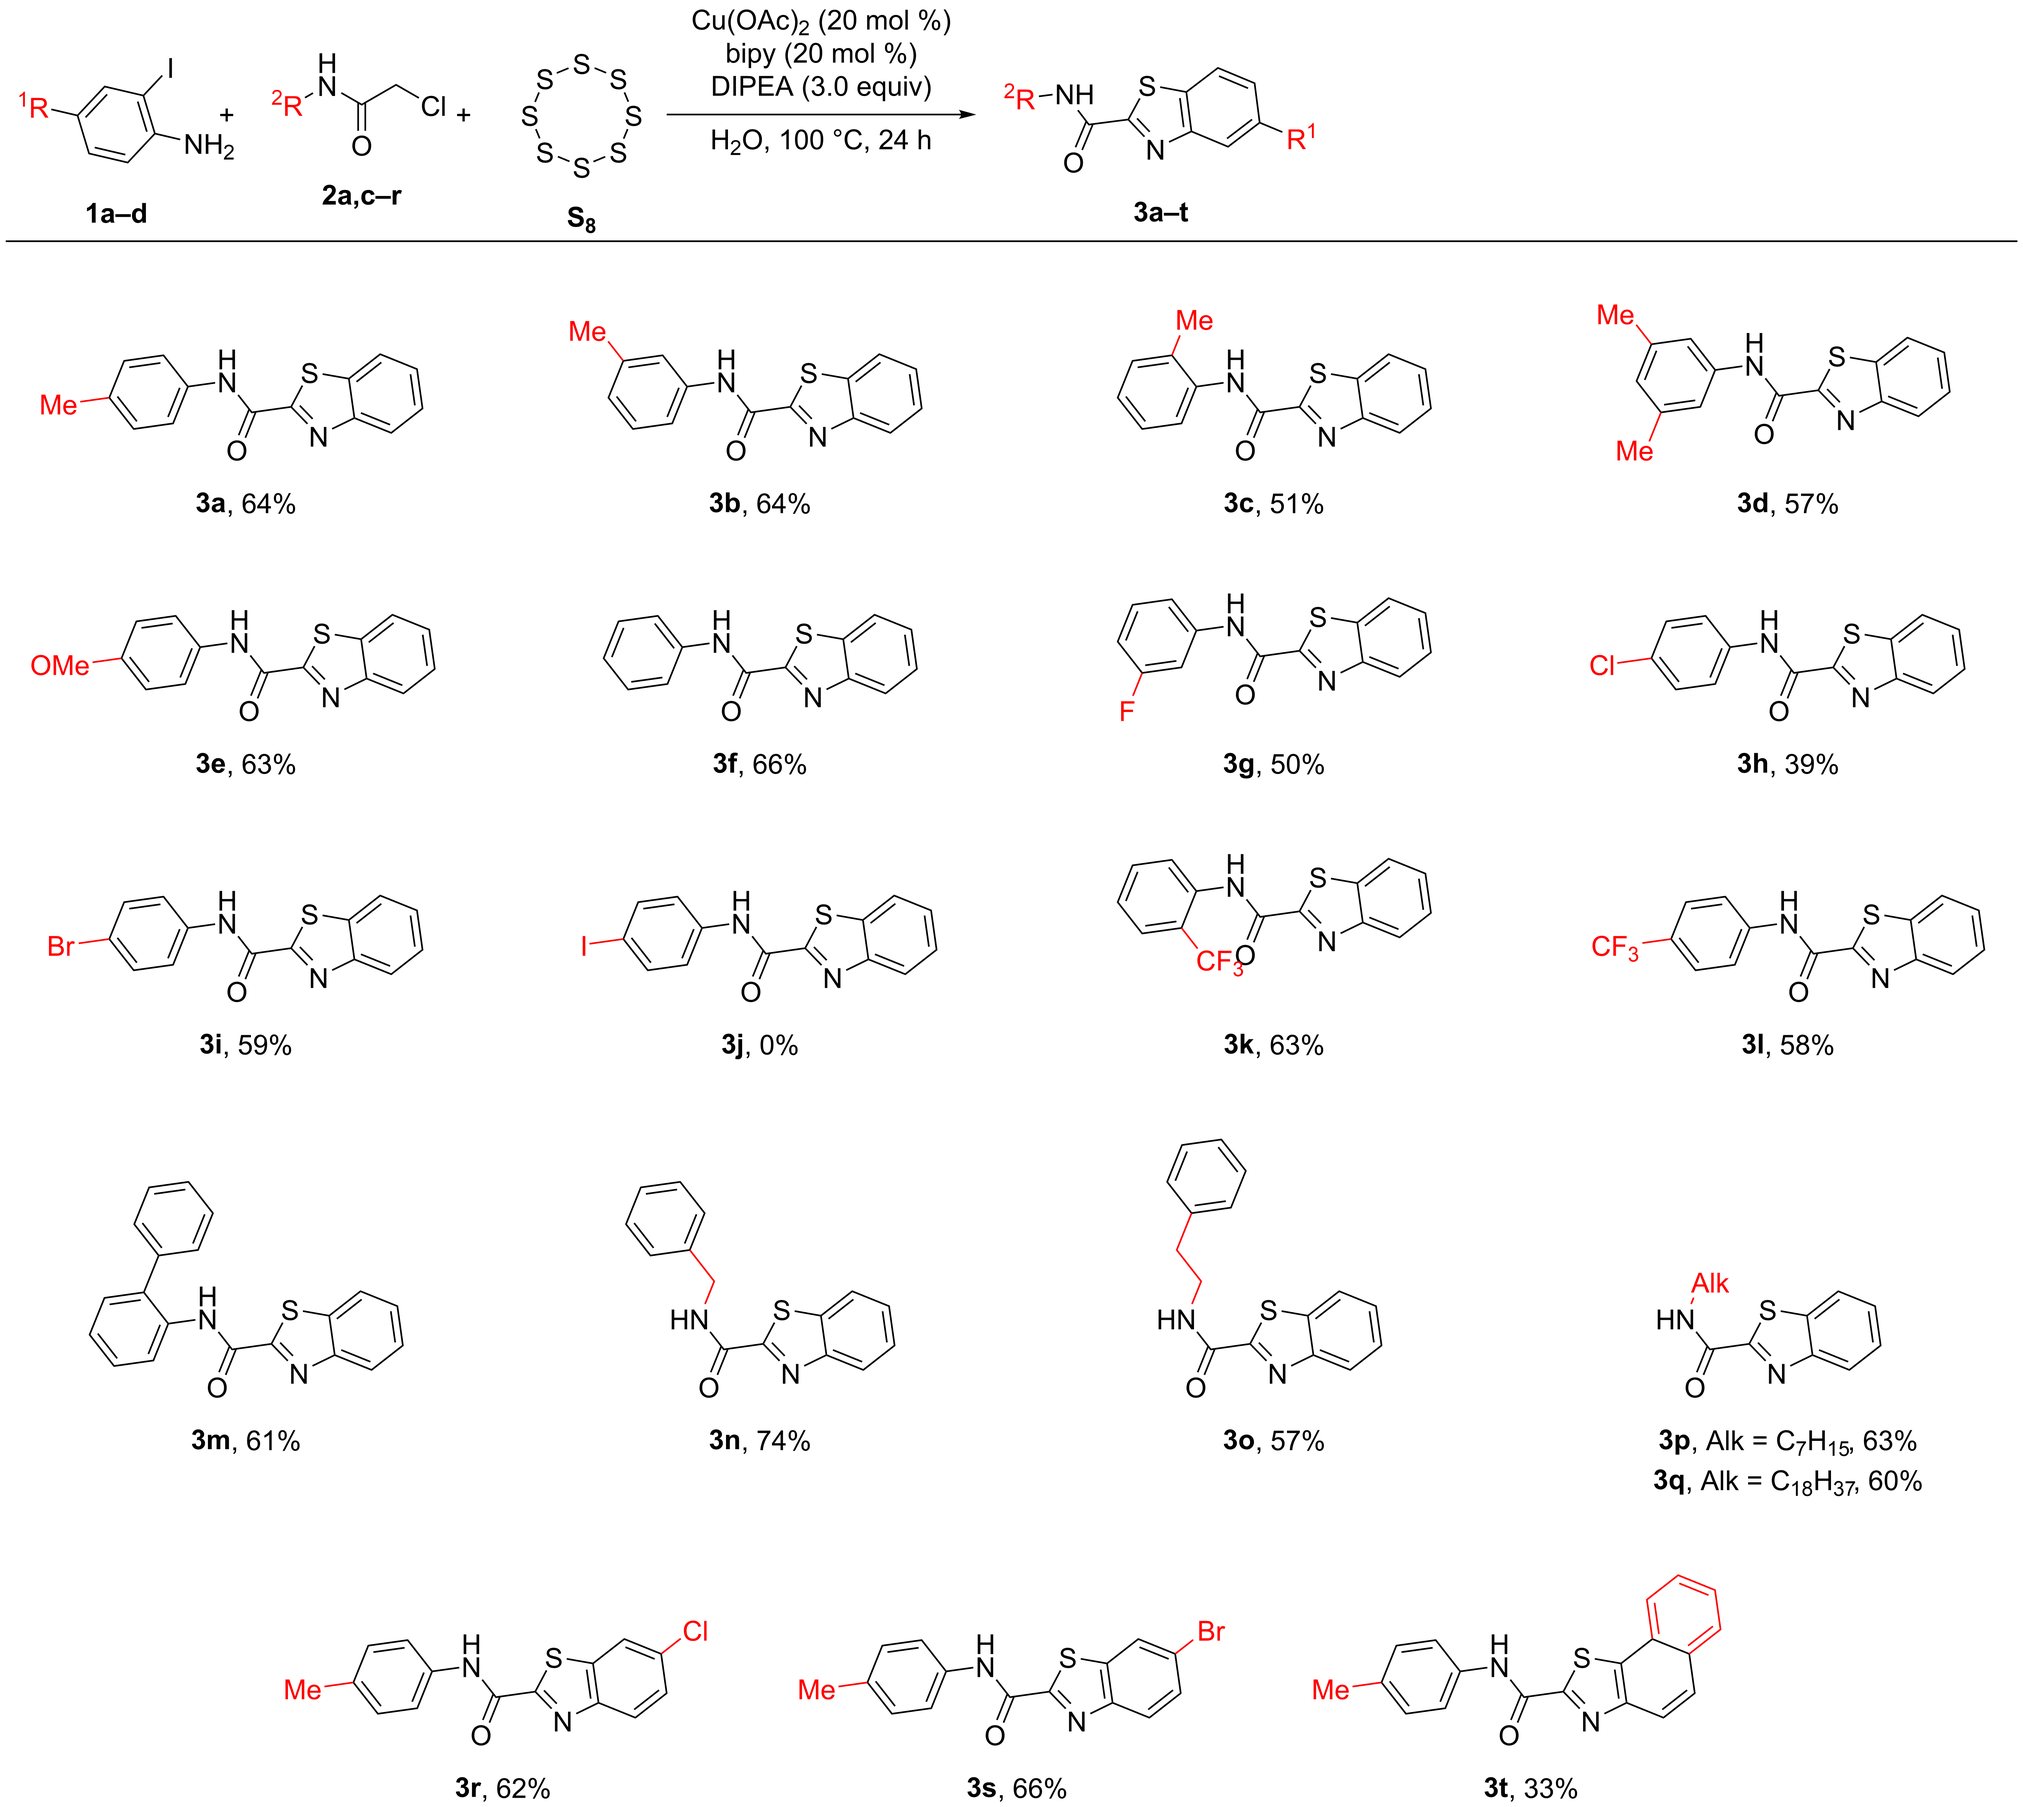
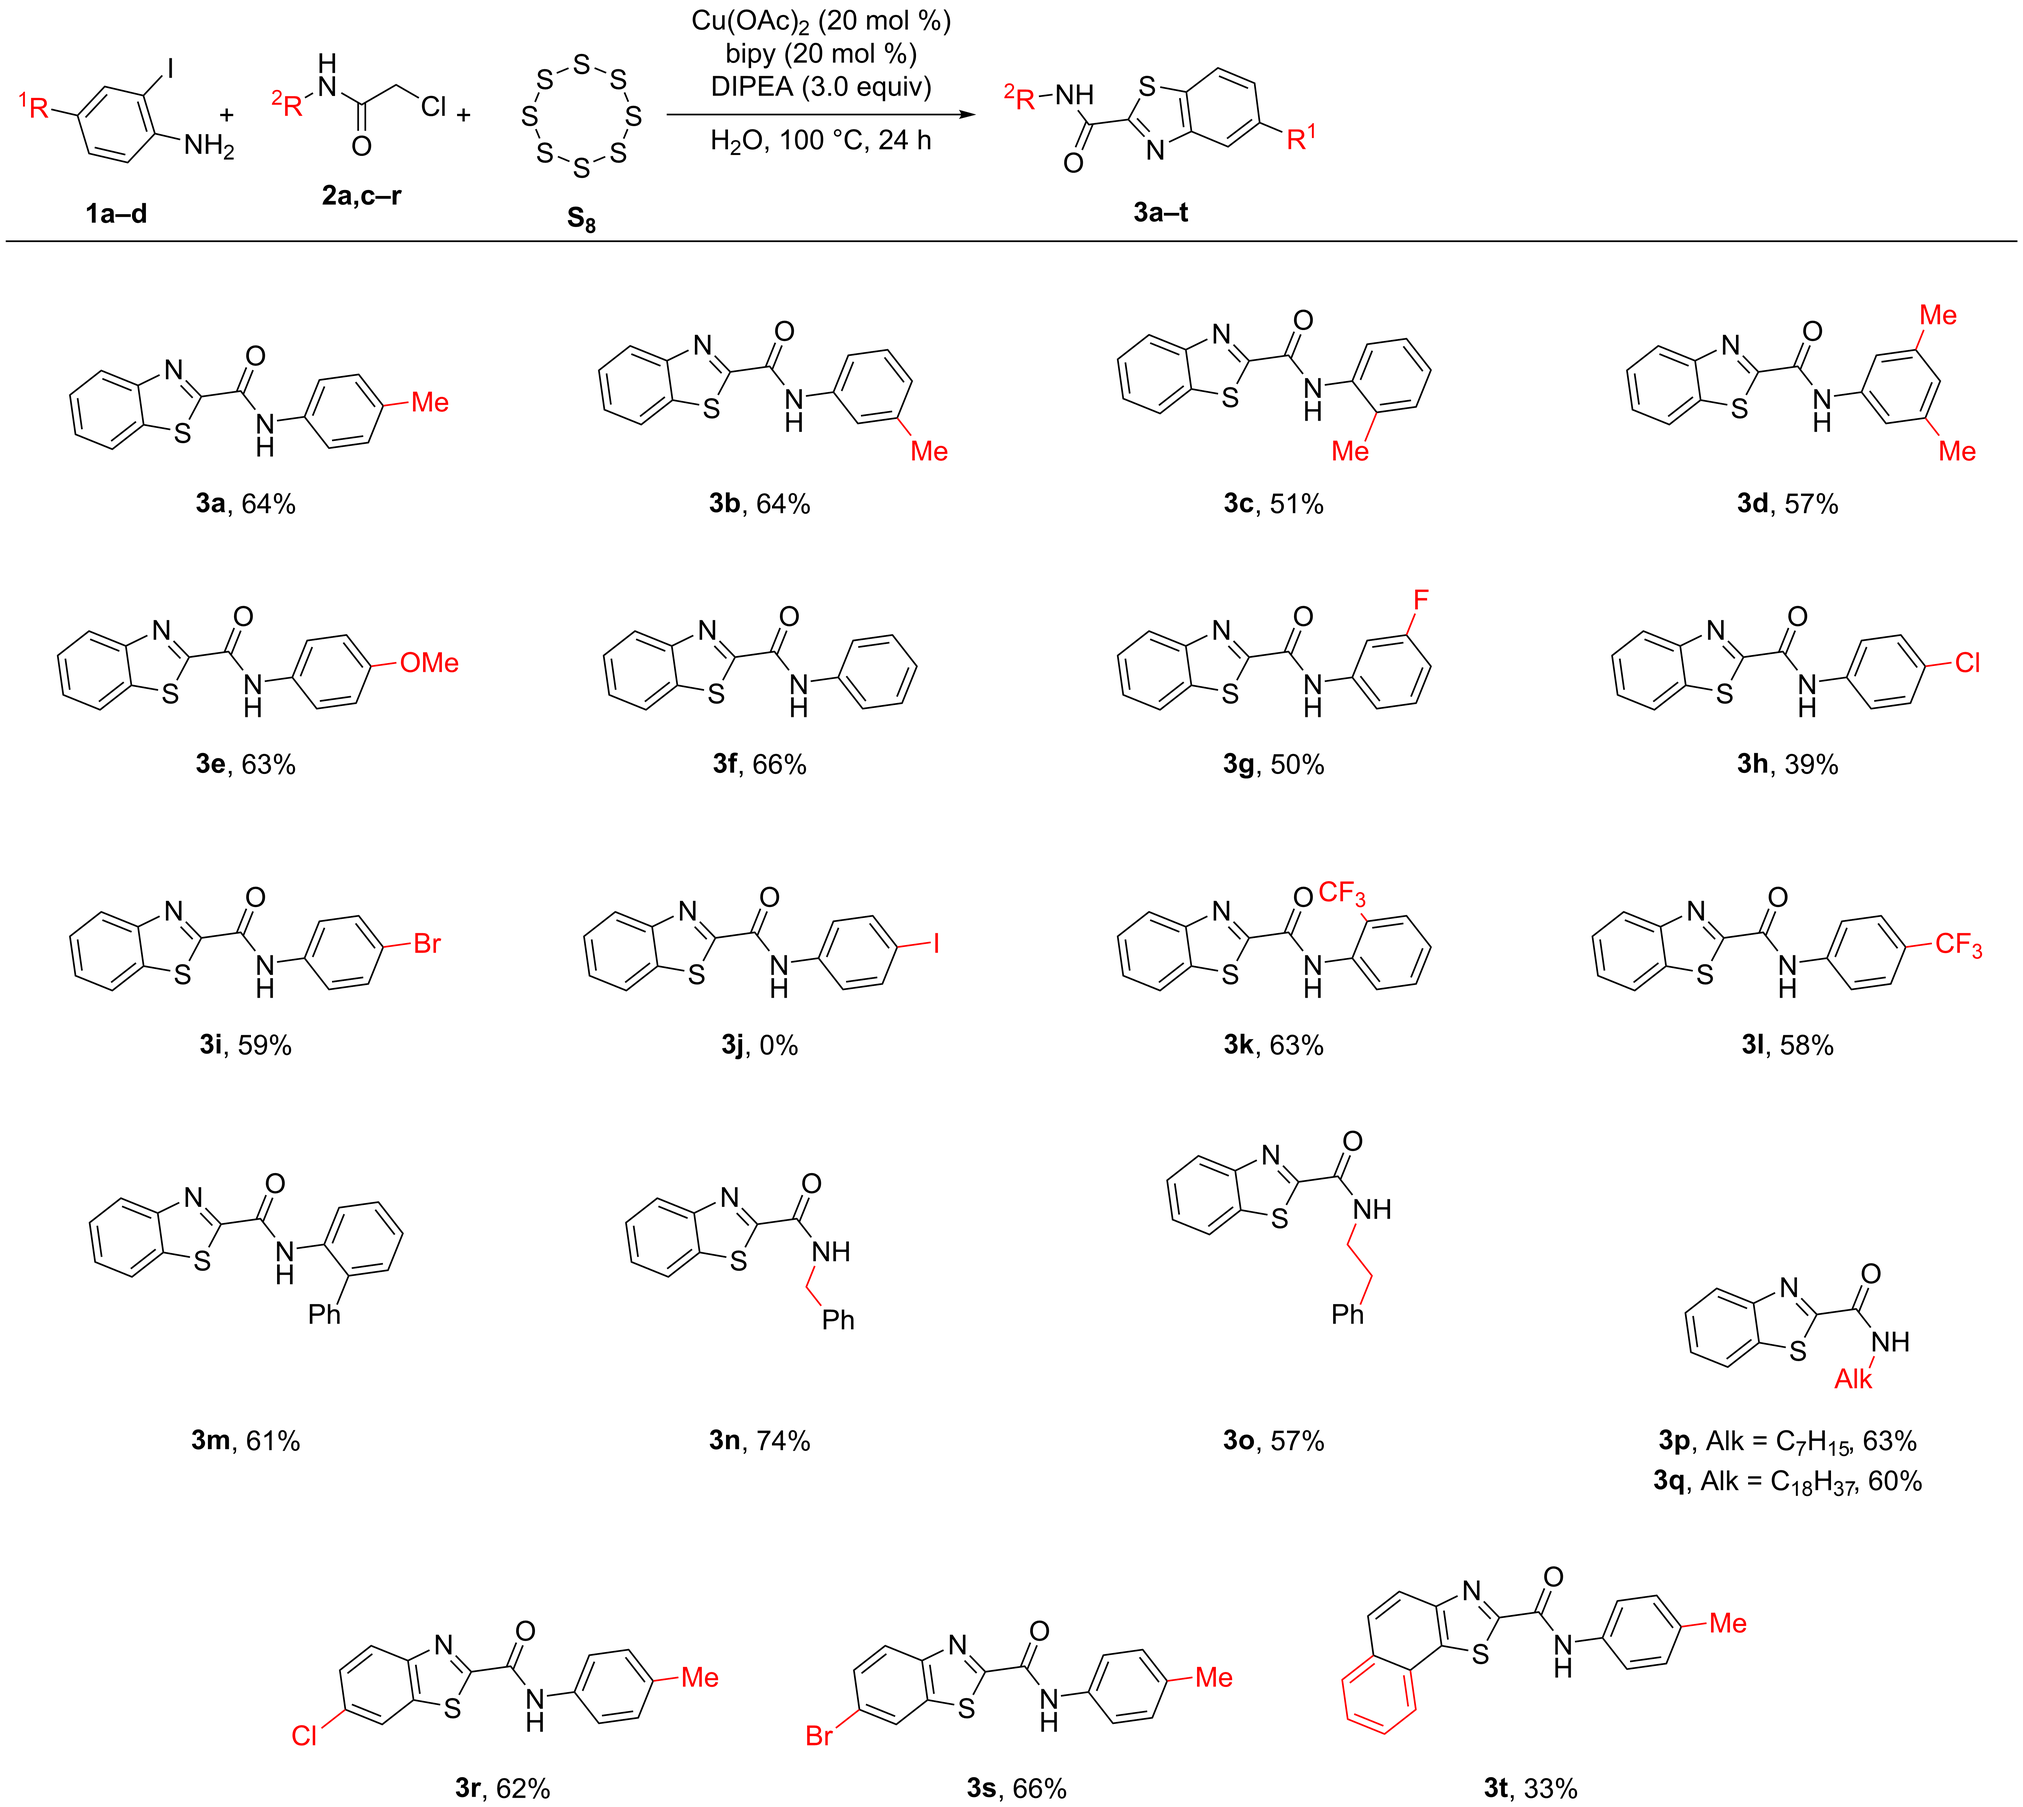
feat(scope): the table can be turned to the orientation its source figure uses
RDKit's own depiction puts this series' benzothiazole on the right; the source figure draws it on
the left. The first compound of a table fixes the orientation of every later cell, so turning that
one turns the whole table: `depiction_rotation` (degrees, -360..360) does that, turning both the
drawn points and the conformer each in its own units.

Used on the four-column brief to match BJOC 22-127, and the phenyl of the benzyl, phenethyl and
biaryl cells is now written "Ph" like the source (the N-aryl ring stays drawn: it is scaffold).

tests/runtime/test_draw_scope.py 43 passed, including a new one that asserts the heterocycle's
nitrogen-to-sulfur vector turns by about 180 degrees.

diff --git a/toolkit/tests/runtime/test_draw_scope.py b/toolkit/tests/runtime/test_draw_scope.py
@@ -1,5 +1,6 @@
 from __future__ import annotations
 
+import math
 import copy
 import json
 import xml.etree.ElementTree as ET
@@ -419,3 +420,33 @@ def test_an_empty_title_asks_for_no_title_at_all(tmp_path):
     texts = ["".join(s.text or "" for s in t.iter("s")).strip() for t in root.iter("t")]
     assert "Substrate scope" not in texts
     assert all("scope" not in text.lower() for text in texts)
+
+def test_depiction_rotation_turns_the_whole_table(tmp_path):
+    # The first compound sets the orientation of every cell, so turning it turns the table: a source
+    # figure with the benzothiazole on the left needs 180 where RDKit draws it on the right. The
+    # vector from the ring's nitrogen to its sulfur says which way round the heterocycle sits.
+    def brief(rotation=None):
+        out = {"kind": "scope", "title": "", "fields": [{"key": "yield"}],
+               "species": [{"id": "a", "smiles": "O=C(Nc1ccccc1)c1nc2ccccc2s1", "values": {"yield": "64%"}},
+                           {"id": "b", "smiles": "Cc1ccccc1NC(=O)c1nc2ccccc2s1", "values": {"yield": "61%"}}]}
+        if rotation is not None:
+            out["depiction_rotation"] = rotation
+        return out
+
+    straight = draw_figure(brief(), output_path=str(tmp_path / "straight"))
+    turned = draw_figure(brief(180), output_path=str(tmp_path / "turned"))
+    assert turned["ok"], turned
+
+    def n_to_s_angle(report):
+        root = ET.parse(report["pages"][0]["path"]).getroot()
+        where = {}
+        for node in root.find(".//fragment").iter("n"):
+            if node.get("p") and node.get("Element") in ("7", "16"):
+                x, y = node.get("p").split()[:2]
+                where[node.get("Element")] = (float(x), float(y))
+        assert set(where) == {"7", "16"}, where
+        (nx, ny), (sx, sy) = where["7"], where["16"]
+        return math.degrees(math.atan2(sy - ny, sx - nx))
+
+    change = abs((n_to_s_angle(straight) - n_to_s_angle(turned) + 180) % 360 - 180)
+    assert 150 < change < 210, change

diff --git a/toolkit/cdxml_toolkit/mcp_runtime/figure_scope.py b/toolkit/cdxml_toolkit/mcp_runtime/figure_scope.py
@@ -29,7 +29,7 @@ from .figure_draw import (
 from ..chemdraw.style_presets import DEFAULT_STYLE_PRESET, style_preset_as_manifest_style
 
 SCOPE_KEYS = {"kind", "species", "fields", "conditions", "footnotes", "title", "style", "width_mm", "height_mm",
-              "highlight_varying", "header", "columns"}
+              "highlight_varying", "header", "columns", "depiction_rotation"}
 HEADER_KEYS = {"substrates", "products", "above", "below"}
 HIGHLIGHT = "#FF6600"  # the house orange, already in the default check palette
 SPECIES_STYLE = ("color", "atom_colors", "bond_colors", "abbreviate")
@@ -114,7 +114,7 @@ def _validate(brief: dict) -> list[str]:
     for entry in brief.get("species") or []:
         if isinstance(entry, dict):
             errors += figure_house.species_style_errors(entry)
-    for key, low, high in (("width_mm", 60, 400), ("height_mm", 60, 500)):
+    for key, low, high in (("width_mm", 60, 400), ("height_mm", 60, 500), ("depiction_rotation", -360, 360)):
         value = brief.get(key)
         if value is not None and not (isinstance(value, (int, float)) and low <= value <= high):
             errors.append(f"{key} must be a number from {low} to {high} millimetres.")
@@ -402,6 +402,9 @@ def _write_inputs(work: Path, brief: dict, grounded: list[dict], fields: list[di
         "native_render": render,
         **({"header": header} if header else {}),
         **({"columns": brief["columns"]} if brief.get("columns") else {}),
+        # Turns the reference depiction of the whole table, so a benzothiazole can sit on the left
+        # where the source figure has it rather than on the right where RDKit puts it.
+        **({"depiction_rotation": brief["depiction_rotation"]} if brief.get("depiction_rotation") else {}),
     }
     path = work / "spec.json"
     path.write_text(json.dumps(spec, ensure_ascii=False), encoding="utf-8")

diff --git a/toolkit/cdxml_toolkit/publication/layout.py b/toolkit/cdxml_toolkit/publication/layout.py
@@ -376,6 +376,20 @@ def prepare(records,spec):
             if ref_id not in by_id: raise ValueError(f'Unknown reference compound: {ref_id}')
             ref=Chem.MolFromSmiles(by_id[ref_id]['smiles']); rdDepictor.Compute2DCoords(ref); refs[group]=ref
         mol,xy,warning=molecule_coordinates(Chem.MolFromSmiles(record['smiles']),style['bond_length'],refs.get(group))
+        if group not in refs and float(spec.get('depiction_rotation') or 0):
+            # The first compound of a table fixes the orientation every later cell is aligned to, so
+            # turning it turns the whole table: 180 puts a benzothiazole on the left where the source
+            # figure has it, instead of the right where RDKit's own depiction does. Both the points
+            # and the conformer are turned, each in its own units.
+            angle=math.radians(float(spec.get('depiction_rotation')))
+            c,sn=math.cos(angle),math.sin(angle)
+            cx=sum(x for x,_ in xy)/len(xy); cy=sum(y for _,y in xy)/len(xy)
+            xy=[((x-cx)*c-(y-cy)*sn+cx, (x-cx)*sn+(y-cy)*c+cy) for x,y in xy]
+            conf=mol.GetConformer()
+            inner=[(conf.GetAtomPosition(i).x, conf.GetAtomPosition(i).y) for i in range(mol.GetNumAtoms())]
+            icx=sum(x for x,_ in inner)/len(inner); icy=sum(y for _,y in inner)/len(inner)
+            for i,(x,y) in enumerate(inner):
+                conf.SetAtomPosition(i, ((x-icx)*c-(y-icy)*sn+icx, (x-icx)*sn+(y-icy)*c+icy, 0.0))
         refs.setdefault(group,mol)
         if warning: warnings.append({'compound_id':record['compound_id'],'message':warning})
         # A substituent the compound's definition names ("Alk = C7H15") is drawn as its label:

diff --git a/toolkit/docs/reviewed-exclusions-inventory.md b/toolkit/docs/reviewed-exclusions-inventory.md
@@ -422,7 +422,7 @@
 
 ## `mcp_runtime.figure_scope`
 
-- **function**, line 434: `draw_scope(brief: dict, output_path: str | None, render: bool) -> dict` - Draw a scope panel; called by draw_figure for ``kind: scope``.
+- **function**, line 437: `draw_scope(brief: dict, output_path: str | None, render: bool) -> dict` - Draw a scope panel; called by draw_figure for ``kind: scope``.
 
 ## `mcp_runtime.figure_tools`
 
@@ -678,11 +678,11 @@
 
 ## `publication.layout`
 
-- **function**, line 698: `bounds(node, style)` - No public docstring in the audited version.
+- **function**, line 712: `bounds(node, style)` - No public docstring in the audited version.
 - **function**, line 162: `caption_runs(text, bold = False)` - (the text as it reads, runs or None) for a caption line.
-- **function**, line 728: `check_pages(project, roots, spec)` - No public docstring in the audited version.
+- **function**, line 742: `check_pages(project, roots, spec)` - No public docstring in the audited version.
 - **function**, line 223: `chemical_runs(text)` - Runs for a caption or conditions line whose formula digits are subscripts.
-- **function**, line 438: `create_pages(records, spec, stage, start_index = 0)` - No public docstring in the audited version.
+- **function**, line 452: `create_pages(records, spec, stage, start_index = 0)` - No public docstring in the audited version.
 - **function**, line 29: `font_for(style, size = None, bold = False)` - No public docstring in the audited version.
 - **function**, line 59: `fragment_mol(fragment)` - No public docstring in the audited version.
 - **function**, line 298: `header_identities(spec)` - What the header scheme draws, as the page check counts structures (R numbers removed).
@@ -691,7 +691,7 @@
 - **function**, line 261: `label_group(mol, definition)` - The substituent a definition names, to be drawn as its label: {label, atoms, outside}.
 - **function**, line 70: `molecule_coordinates(mol, bond_length, reference = None)` - No public docstring in the audited version.
 - **function**, line 66: `node_text(node)` - No public docstring in the audited version.
-- **function**, line 724: `overlap(a, b)` - No public docstring in the audited version.
+- **function**, line 738: `overlap(a, b)` - No public docstring in the audited version.
 - **function**, line 248: `parse_definition(text)` - (label, {element: count}) for a definition such as "Alk = C7H15", else None.
 - **function**, line 368: `prepare(records, spec)` - No public docstring in the audited version.
 - **function**, line 17: `style_settings(spec)` - No public docstring in the audited version.
